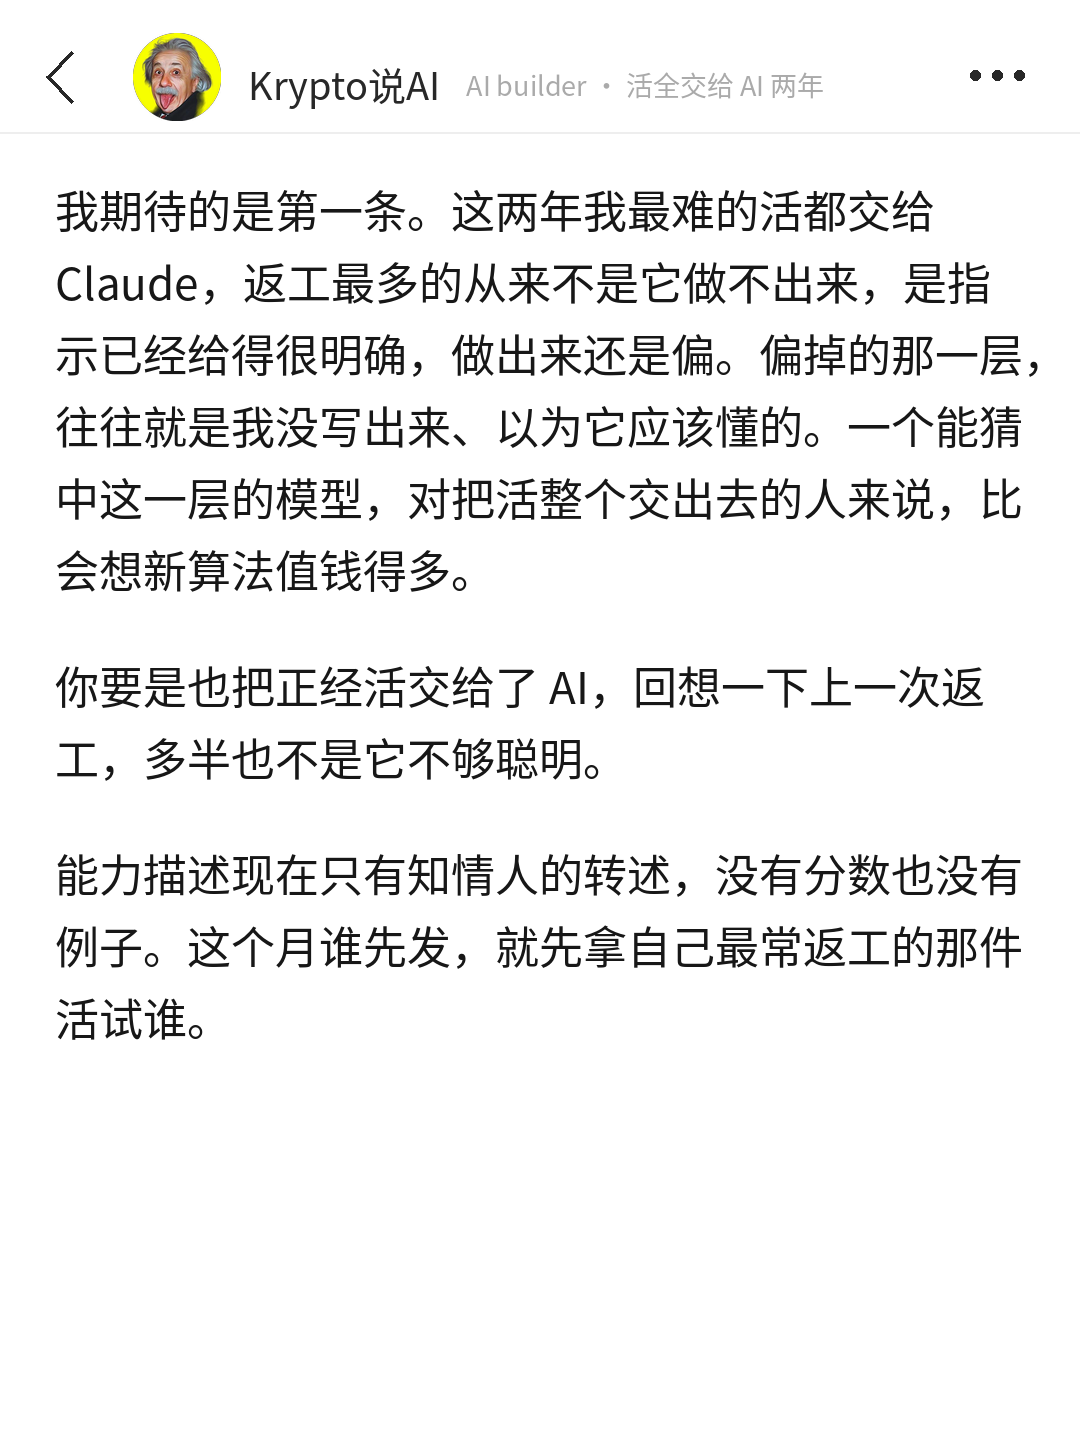
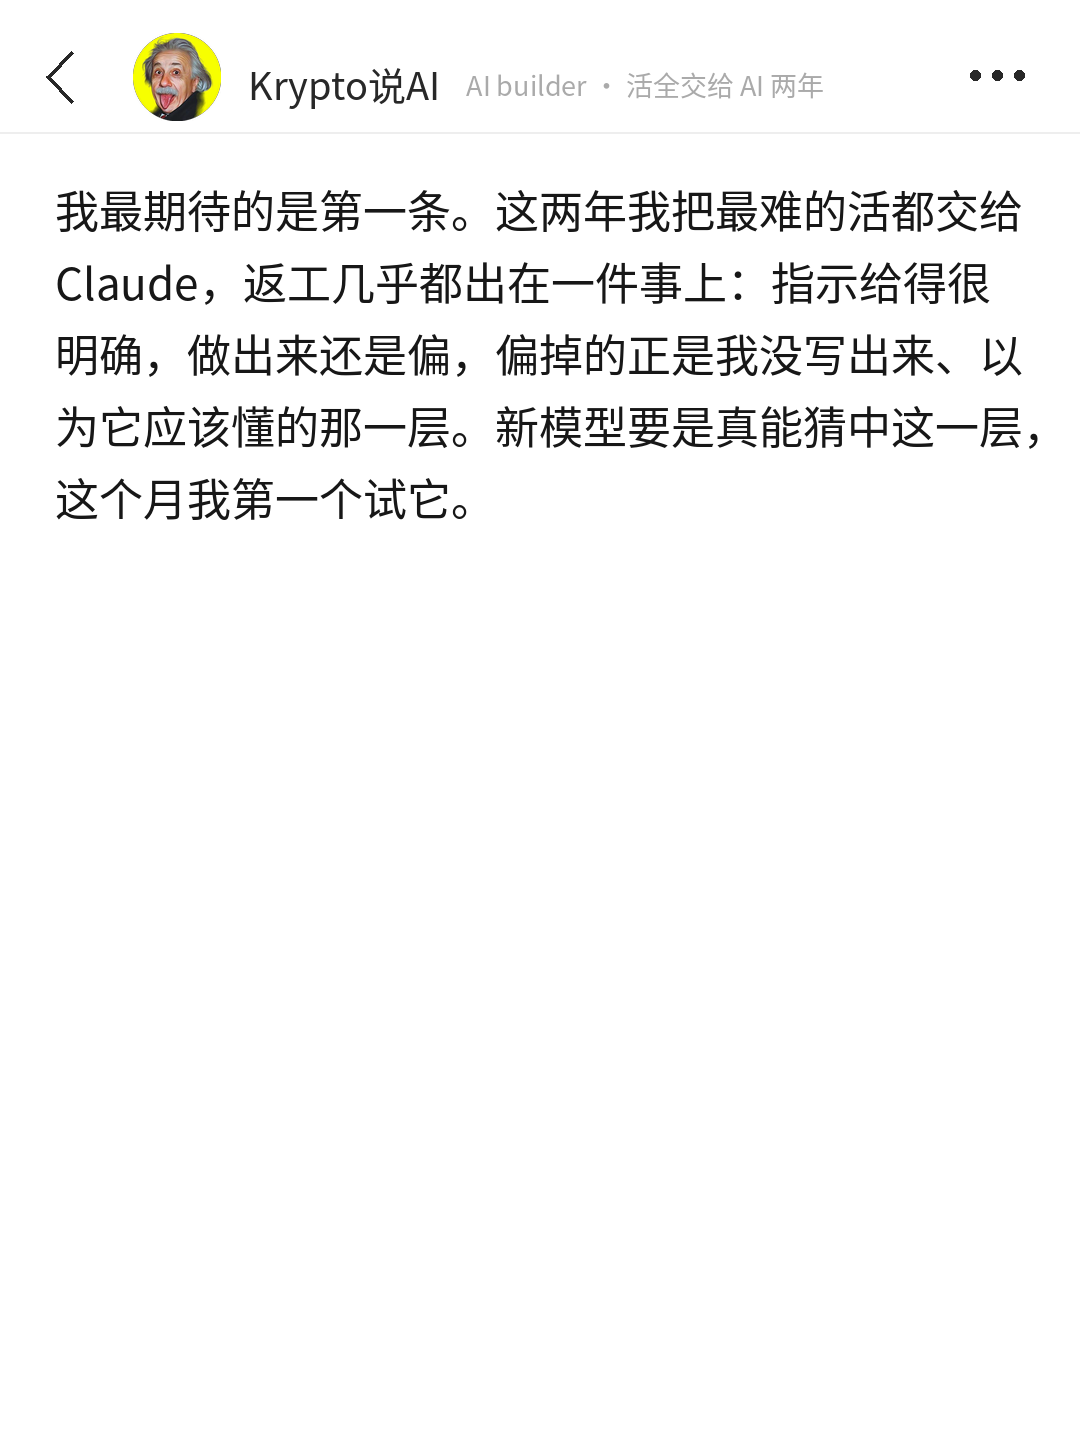
Anthropic 稿第 3 页缩成一段「非常期待」
Claude-Session: https://claude.ai/code/session_01AMNtEXjLouQeh7jZFHjYwS

diff --git a/CLAUDE.md b/CLAUDE.md
@@ -3,7 +3,7 @@
 这个仓库是小红书账号 **Krypto说AI** 的工作区，也是它的记忆。在这里做的每一篇稿子，先读本页，再读 `账号/档案.md`、`账号/经历库.md` 和 `账号/爆文方法论.md`（10-14 起，选题 / 标题 / 首图 / 原文跟发的发前清单，交付时逐条写过没过）。每次用户说了新的经历、新的观点、新的规则，写回这两份文件并更新本页摘要，不要只留在对话里。
 
 ## 摘要
-- **10-20 Anthropic 新模型爆料稿（meme，热点快评，value 信息，立场 C，发布时间待定，`发布/2026-10-20_anthropic-new-model/`）**：素材是 TestingCatalog 10-19 转 The Information 爆料（Anthropic 本月发新模型，长处是读意图 + 不照本宣科；Gemini 4 Carbon、OpenAI Terra 同月；Opus 5.5 路由、Fable 5.5 痕迹是 TestingCatalog 自己的报道）。用户要短、新闻侧重；10-20 看稿后定改成更短的新闻版（600 字，3 页 + 名片卡）：开头直接说三家十月扎堆发模型，首图用 X 回复里的 wojak 漫画（用户：美式 meme 感可能更火），原文红框截图留正文，一图看懂卡撤掉，长版存 `draft_v2_长版.md`。再改（用户 10-20 二次看稿）：标题不能写成只有 Anthropic 一家（「Anthropic：三家十月扎堆发模型」✗），改「十月扎堆发模型，Anthropic最神秘」，可搜词在前 6 字之外 ⚠ 认了；「爆料」全文只说一次「根据最新爆料」，后面不再「爆料说」，像一直在转述新闻；2、3 页我们自己的观点收缩，整篇就是快速爆料 + 我们保持期待的那一点（读意图），400 字 3 页。改前存 `draft_v3_改标题前.md`。写稿前先问没走（用户没在线），立场 / 价值 / 骨架全是默认：stance「模型能猜中你没写进提示词的要求，比会想出新算法值钱；返工都是从没听懂开始的」，反对发帖人「跳出框框才是大事、读意图有点吓人」；「我」只用经历库 #17（最难的活给 Fable 5）、#8（指示明确仍偏）、#20（拍任务 → 让它先给意见）。标题「Anthropic新模型：会猜你没说的」，三条备选都卡在 20 字（英文每字母算一字），没放数字和对比站队句。第 2 页「一图看懂」卡把 Google / OpenAI 放进图里，正文开头三段只留 Anthropic 和 The Information 两个锚点（专名数上限）。render_meme 云端要先 `apt-get update && apt-get install -y fonts-noto-cjk`，否则报 cannot open resource
+- **10-20 Anthropic 新模型爆料稿（meme，热点快评，value 信息，立场 C，发布时间待定，`发布/2026-10-20_anthropic-new-model/`）**：素材是 TestingCatalog 10-19 转 The Information 爆料（Anthropic 本月发新模型，长处是读意图 + 不照本宣科；Gemini 4 Carbon、OpenAI Terra 同月；Opus 5.5 路由、Fable 5.5 痕迹是 TestingCatalog 自己的报道）。用户要短、新闻侧重；10-20 看稿后定改成更短的新闻版（600 字，3 页 + 名片卡）：开头直接说三家十月扎堆发模型，首图用 X 回复里的 wojak 漫画（用户：美式 meme 感可能更火），原文红框截图留正文，一图看懂卡撤掉，长版存 `draft_v2_长版.md`。再改（用户 10-20 二次看稿）：标题不能写成只有 Anthropic 一家（「Anthropic：三家十月扎堆发模型」✗），改「十月扎堆发模型，Anthropic最神秘」，可搜词在前 6 字之外 ⚠ 认了；「爆料」全文只说一次「根据最新爆料」，后面不再「爆料说」，像一直在转述新闻；2、3 页我们自己的观点收缩，整篇就是快速爆料 + 我们保持期待的那一点（读意图），400 字 3 页。改前存 `draft_v3_改标题前.md`。第 3 页再缩成一段（用户：体现非常期待就好，不要说太多）：「我最期待的是第一条……这个月我第一个试它」，删掉「你」那段和局限那段。写稿前先问没走（用户没在线），立场 / 价值 / 骨架全是默认：stance「模型能猜中你没写进提示词的要求，比会想出新算法值钱；返工都是从没听懂开始的」，反对发帖人「跳出框框才是大事、读意图有点吓人」；「我」只用经历库 #17（最难的活给 Fable 5）、#8（指示明确仍偏）、#20（拍任务 → 让它先给意见）。标题「Anthropic新模型：会猜你没说的」，三条备选都卡在 20 字（英文每字母算一字），没放数字和对比站队句。第 2 页「一图看懂」卡把 Google / OpenAI 放进图里，正文开头三段只留 Anthropic 和 The Information 两个锚点（专名数上限）。render_meme 云端要先 `apt-get update && apt-get install -y fonts-noto-cjk`，否则报 cannot open resource
 - **10-19 Jack Clark IMF 讲座稿（meme，观察，框架，立场 A，暂排 10-21，`发布/2026-10-21_jack-clark-imf/`）**：素材是 Jack Clark 10-17 在曼谷 IMF / 世行年会的 Per Jacobsson 讲座（62 年第一次请 AI 公司创始人）+ 印度首席经济顾问的反方。一个颠覆点：50 道未发表理论物理题，模型坚持专家答案错、专家回查真有错、最后 49/50。用户没答写稿前先问，立场 / 价值 / 骨架都是默认，「我」只用经历库 #17（最难的活交给 Claude）、#20（拍任务 → 让它提意见，正在转）。视频截图：云端 YouTube 拦下载（视频流 403，要 PO token），storyboard 只有 320×180；用户在 Mac 上截了三张，首页用大屏头像卡（眼睛睁着），另两张右下角讲台小窗里 Jack 低头闭眼，裁成只剩幻灯片。以后要视频截图直接请用户在 Mac 截，给时间点。**用户看稿后定（10-19）**：① 首页开头直接进素材里的事，不用「我把活交给 Claude」这类「我」的铺垫起笔；② 引入别固化成「我看了 / 我刚读了」，要换着用（周末读了、朋友推荐等，「朋友推荐」只在真有其事时用，不编）；③ 信息密度大的稿，前两页就要有插图 / 可视化（这篇第 2 页加了「一图看懂」卡）；④ 标题要有情绪和转折感，光有人名 + 数字不够（主标题改成「Anthropic联创：专家竟被AI纠错」）。还没改进 skill，规则冻结到 10-21，到期一起议
 - **10-19 LobsterAI 办公 Agent 报告稿（meme，观察，价值框架，立场 C，排 10-21 18:00，10-19 晚改方向 A，待用户看）**：素材是 LobsterAI《中国办公 Agent 用户行为报告》9 月版长图（只有 227px 宽，原图待用户补）+ 铁锤人 @lxfater 10-19 推特 thread。stance 反对 thread 原句「还变成新一代普通人学编程的夜校」：假期晚上写代码的还是原来会写的人（泛编程本来占四成任务）；一个模型够不够看交出去几种活。用户回答进经历库 #27（美股宏观监控、高尔夫动作教练都用 Claude Code 做；没看过缓存）#28（开始用 WorkBuddy 做微信生态）、观点库 #25。thread 把 V4.1 Flash / V4 Flash 的缓存数串了，「牛来营销」是他的推测，稿里都没用。「微信」被 meme_check 判站外导流，稿里写「腾讯生态」。标题用户 10-19 改成情绪 + 名字：首页 headline「LobsterAI：听说你们下班偷偷学AI？」，标题.txt 压到 20 字「LobsterAI：听说你下班偷学AI？」，主关键词改 LobsterAI。用户 10-19 定两条写作规则：形容词也用双字（第 12 条）；开头不替读者预设情绪（「第一反应多半是焦虑……其实用不着焦虑」像 AI），直接从信源反常的事实起笔，撤回 10-14「第二句是读者的焦虑」（writing_guide 第 3 节、爆文方法论第三节、meme-xhs SKILL）；别人不深入人心的比喻（「夜校」）只引原话一次，不拿来当全文意象（writing_guide 反面清单）；Echo 三样第 ② 条改成潜移默化：不写「如果你……这篇想讲清楚一件事」，用一句跟读者处境有关的事实让他自己对上号（writing_guide 6.10）。**10-19 晚用户说「食之无味」，改方向 A**：主线从反驳「夜校」换成「七成普通用户只用一个模型」，骨架是用户五个工具各一件真事（Claude 拆计划 / Codex 定时任务翻车 / Grok 早报 / DeepSeek 接 SayType / WorkBuddy 做小程序，经历库 #13 #9 #18 #24 #28），stance「一个模型够不够用取决于交出去几种活，挑模型看活不看榜单」（立场 C），图下正文给可照抄的分工卡；标题「LobsterAI：一个模型真的不够用」。教训：主线是反驳一件「还没发生」的事，读者读完拿不走东西。10-20 按小盖第十批改：开头加「在场的一句」（国内大厂做产品的朋友推荐 WorkBuddy 做小程序，经历库 #28）、加「读者直觉 → 翻过来」（挑一个最强的模型什么活都交给它就够了 → 我的体会不太一样），标题改认知差句「看来很多人没读懂LobsterAI报告。」。**10-20 用户要求按对标稿格式重写**（`对标/未署名_JackClark奇点稿/`）：评论员式连贯短文，不再编号；开头判断 + 分量 → 关键数 → 「你可以不在意用哪家模型，但用得多的人已经在按活分工」→ 放回整份报告（单次任务量半年涨三倍多）→ 拆「多模型 = 挑冠军」的误解 → 用户五个工具当证据 → 缓存账单 → 读者该留意什么 → 问读者 + 自己的答案「先数活，再挑模型」。删掉素材里没有的「不写代码的人用得最多的是整理数据和表格」（报告只有假期份额 −2.9）。改前存 `draft_v9_改格式前.md`，940 字 7 页
 - **10-18 晚 对标 Echo note 回响阅览室，学了三样（用户定「写进 skills」，`对标/Echo note回响阅览室/拆解.md`）**：用户说稿子「像转述、没有个人 IP」。Echo 做海外播客精读，素材全是别人的却不像搬运，靠首尾一个「我」的框。写进 meme-xhs SKILL + writing_guide 6.10、own-xhs、爆文方法论发前清单 2.6：① 首页「我最想说的一件事是：（stance）」，用户真改变过看法才写「改观」；② 紧跟点名读者 + 承诺；③ 结尾「以前 / 现在」（用户真实变化）+ 两类读者各一句。不进 meme_check，验证稿待 3 篇（Anthropic 就业稿 10-18 19:15 实际发出去的是试三样之前的版本，不算，下一篇起算）。节尾加粗对仗金句不学（10-02 被认出 AI 的句式）；标题用「情绪 + 人名 / 模型名 / 信源」（用户 10-18 晚定，如「强烈推荐看看Anthropic就业报告。」），不写只有情绪没名字的，备选三条至少一条用这种

diff --git a/发布/2026-10-20_anthropic-new-model/meme版/编辑用/draft.md b/发布/2026-10-20_anthropic-new-model/meme版/编辑用/draft.md
@@ -24,8 +24,4 @@ account: Krypto说AI
 
 ![The Information 的原话](newsletter_box.png)
 
-我期待的是第一条。这两年我最难的活都交给 Claude，返工最多的从来不是它做不出来，是指示已经给得很明确，做出来还是偏。偏掉的那一层，往往就是我没写出来、以为它应该懂的。一个能猜中这一层的模型，对把活整个交出去的人来说，比会想新算法值钱得多。
-
-你要是也把正经活交给了 AI，回想一下上一次返工，多半也不是它不够聪明。
-
-能力描述现在只有知情人的转述，没有分数也没有例子。这个月谁先发，就先拿自己最常返工的那件活试谁。
+我最期待的是第一条。这两年我把最难的活都交给 Claude，返工几乎都出在一件事上：指示给得很明确，做出来还是偏，偏掉的正是我没写出来、以为它应该懂的那一层。新模型要是真能猜中这一层，这个月我第一个试它。
